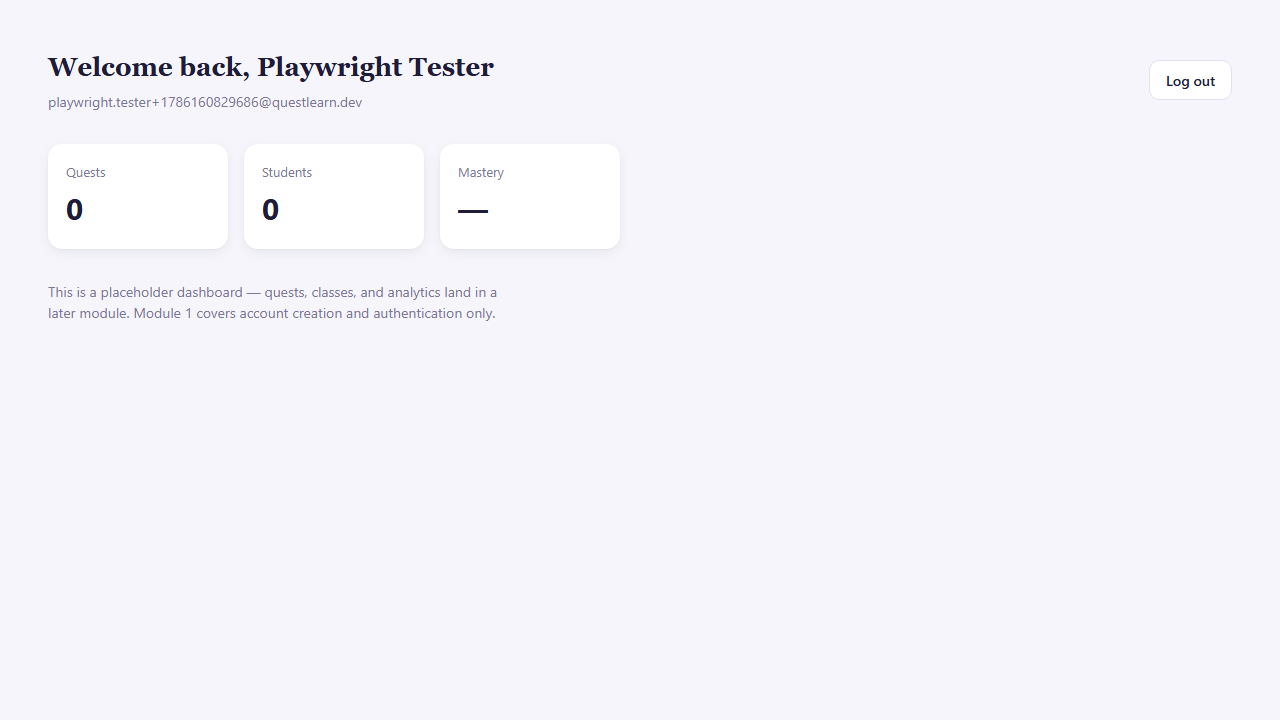
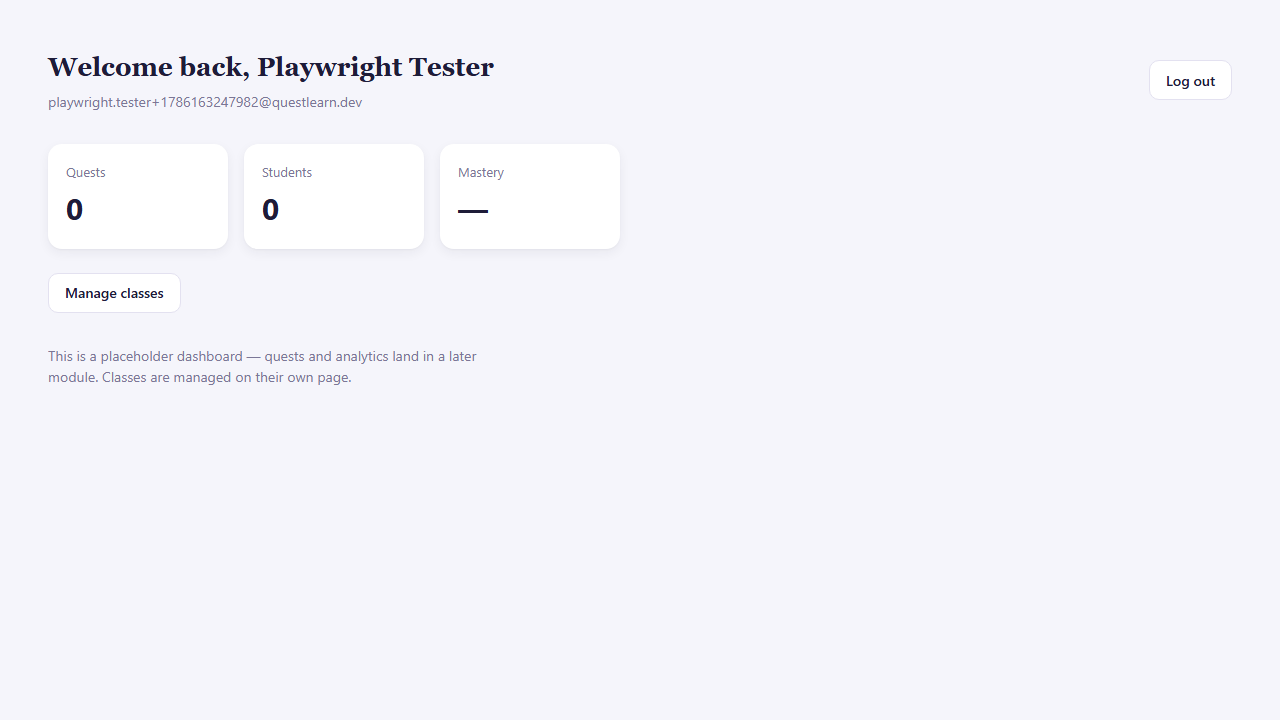
test(classes): add Playwright class browser journey and capture screenshots
Covers login -> create class -> class list -> class detail -> join
code -> roster add/remove -> join-code rotation, plus not-found and
unauthenticated-redirect states. Pins playwright.config.ts to
workers: 1: with two spec files now sharing one demo account, one
login rate-limit bucket, and one dev-log-scraping trick, running them
across parallel workers races all three. Also refreshes the Module 1
dashboard screenshot to reflect the new "Manage classes" link.

Changed region(s): [[0.0312, 0.3972, 0.375, 0.4583], [0.0312, 0.4889, 0.375, 0.55], [0.1562, 0.1222, 0.1875, 0.1528]]

diff --git a/apps/web/e2e/classes.spec.ts b/apps/web/e2e/classes.spec.ts
@@ -1,0 +1,90 @@
+import path from "node:path";
+import { test, expect } from "@playwright/test";
+
+const SCREENSHOT_DIR = path.resolve(__dirname, "../../../docs/screenshots/02-classes");
+
+const DEMO_EMAIL = "demo.teacher@questlearn.dev";
+const DEMO_PASSWORD = "DemoTeacher2026!";
+const uniqueSuffix = Date.now();
+const className = `Playwright Test Class ${uniqueSuffix}`;
+const rosterName = "Taylor Nguyen";
+const rosterEmail = `taylor.nguyen+${uniqueSuffix}@example.com`;
+
+async function login(page: import("@playwright/test").Page) {
+  await page.goto("/login");
+  await page.getByLabel("Email").fill(DEMO_EMAIL);
+  await page.getByLabel("Password").fill(DEMO_PASSWORD);
+  await page.getByRole("button", { name: /sign in/i }).click();
+  await expect(page).toHaveURL(/\/dashboard/);
+}
+
+test.describe.serial("class browser journey: login -> create -> roster -> rotate", () => {
+  test("log in, create a class, and see it in the class list", async ({ page }) => {
+    await login(page);
+
+    await page.goto("/classes");
+    await expect(page.getByRole("heading", { name: /your classes/i })).toBeVisible();
+    await page.screenshot({ path: path.join(SCREENSHOT_DIR, "class-list.png"), fullPage: true });
+
+    await page.getByRole("link", { name: /new class/i }).click();
+    await expect(page).toHaveURL(/\/classes\/new/);
+    await page.screenshot({ path: path.join(SCREENSHOT_DIR, "create-class-form.png"), fullPage: true });
+
+    await page.getByLabel("Class name").fill(className);
+    await page.getByRole("button", { name: /create class/i }).click();
+
+    await expect(page).toHaveURL(/\/classes\/[0-9a-f-]+$/);
+    await expect(page.getByTestId("class-name")).toContainText(className);
+
+    await page.goto("/classes");
+    await expect(page.getByTestId("classes-list")).toContainText(className);
+  });
+
+  test("open class detail, see the join code, manage roster, and rotate the code", async ({ page }) => {
+    await login(page);
+    await page.goto("/classes");
+
+    await page.getByTestId("class-card").filter({ hasText: className }).click();
+    await expect(page.getByTestId("class-name")).toContainText(className);
+
+    const originalCode = (await page.getByTestId("join-code").textContent())?.trim();
+    expect(originalCode).toMatch(/^[A-Z0-9]{8}$/);
+    await page.screenshot({ path: path.join(SCREENSHOT_DIR, "class-detail.png"), fullPage: true });
+
+    // Add a roster entry.
+    await page.getByLabel("Student name").fill(rosterName);
+    await page.getByLabel("Email (optional)").fill(rosterEmail);
+    await page.getByRole("button", { name: /^add$/i }).click();
+
+    await expect(page.getByTestId("roster-list")).toContainText(rosterName);
+    await expect(page.getByTestId("roster-list")).toContainText(rosterEmail);
+
+    // Remove it and confirm it disappears.
+    await page
+      .getByTestId("roster-entry")
+      .filter({ hasText: rosterName })
+      .getByRole("button", { name: /remove/i })
+      .click();
+
+    await expect(page.getByTestId("roster-empty")).toBeVisible();
+
+    // Rotate the join code (confirm() dialog auto-accepted).
+    page.once("dialog", (dialog) => dialog.accept());
+    await page.getByRole("button", { name: /rotate code/i }).click();
+
+    await expect(page.getByTestId("join-code")).not.toHaveText(originalCode ?? "");
+    await page.screenshot({ path: path.join(SCREENSHOT_DIR, "join-code-rotated.png"), fullPage: true });
+  });
+
+  test("visiting a class outside the caller's tenant shows the same not-found state", async ({ page }) => {
+    await login(page);
+    await page.goto("/classes/00000000-0000-0000-0000-000000000000");
+    await expect(page.getByTestId("class-not-found")).toBeVisible();
+  });
+
+  test("visiting /classes while unauthenticated redirects to /login", async ({ page }) => {
+    await page.context().clearCookies();
+    await page.goto("/classes");
+    await expect(page).toHaveURL(/\/login/);
+  });
+});

diff --git a/apps/web/playwright.config.ts b/apps/web/playwright.config.ts
@@ -12,6 +12,13 @@ export default defineConfig({
   testDir: "./e2e",
   timeout: 30_000,
   retries: 0,
+  // Every spec file drives the same shared demo account and the same
+  // dev-log-scraping trick (see support/api-log.ts) against one
+  // running server, and shares the login rate-limit bucket besides —
+  // running files in parallel across workers races both. Force
+  // strictly serial execution across the whole suite, not just within
+  // one file's describe.serial block.
+  workers: 1,
   reporter: [["list"]],
   use: {
     baseURL: process.env.WEB_URL ?? "http://localhost:3000",

diff --git a/README.md b/README.md
@@ -16,10 +16,12 @@ The full product and engineering plan lives in
 
 ## Status
 
-**Module 0 — Foundation** (workspace, tooling, health checkpoint) and
-**Module 1 — Authentication** (teacher registration, login, sessions)
-are both in place. See [Module 1 — Authentication](#module-1--authentication)
-below for what that module covers.
+**Module 0 — Foundation** (workspace, tooling, health checkpoint),
+**Module 1 — Authentication** (teacher registration, login, sessions),
+and **Module 2 — Classes** (class CRUD, join codes, roster management)
+are all in place. See [Module 1 — Authentication](#module-1--authentication)
+and [Module 2 — Classes](#module-2--classes) below for what each module
+covers.
 
 ## Architecture
 
@@ -176,14 +178,105 @@ testing:
 - [`login-error.png`](./docs/screenshots/01-authentication/login-error.png)
 - [`authenticated-dashboard.png`](./docs/screenshots/01-authentication/authenticated-dashboard.png)
 
+## Module 2 — Classes
+
+Teacher-side class management: a teacher creates a class, gets a
+join code to share, and maintains a roster manually. There is no
+learner login or self-service join flow in this module — a "roster
+entry" is a lightweight record the teacher adds and removes by hand,
+not a real user account. The actual "learner redeems a join code"
+flow is deferred to a later module, once there's learner-facing
+content (activities, assignments) for a learner session to land in.
+
+**What it adds:**
+
+- `POST /classes`, `GET /classes`, `GET /classes/:id`, `PATCH
+  /classes/:id`, `POST /classes/:id/join-code/rotate`, `POST
+  /classes/:id/roster`, `DELETE /classes/:id/roster/:rosterId`.
+- Real Next.js pages: `/classes` (list), `/classes/new` (create), and
+  `/classes/[id]` (detail — rename, archive, join-code rotation,
+  roster add/remove) — all built directly against
+  `@questlearn/design-system` components.
+- A "Manage classes" link from `/dashboard`.
+
+**Architecture decisions:**
+
+- **Every endpoint is scoped by tenant ID *and* owning teacher ID**,
+  checked together even though one-teacher-per-tenant currently makes
+  the two checks equivalent — the same forward-compatible posture
+  already established in the auth module, ready for multi-teacher
+  tenants later without a rewrite.
+- **Cross-tenant access 404s, never a distinct 403** — a class outside
+  the caller's tenant/ownership returns exactly the same "not found"
+  response as a class that doesn't exist at all, so the response shape
+  can't be used to confirm a class id is real. The frontend mirrors
+  this: there's no separate "permission denied" UI, just the same
+  not-found state the API deliberately returns.
+- **Classes are archived, not deleted**; roster entries are
+  soft-deleted via `removedAt`, not hard-deleted — later modules
+  (activities, assignments) will reference classes, and an audit trail
+  matters more than a clean delete.
+- **Join codes** are 8 characters, uppercase alphanumeric, excluding
+  characters that are easy to misread (`0`/`O`, `1`/`I`/`L`), globally
+  unique across the whole table (not just per tenant, since a future
+  redemption endpoint will need to look one up by code alone with no
+  tenant selector), with collision-retry generation and a default
+  30-day expiry from creation or rotation. Rotating immediately
+  invalidates the old code.
+- **Structured security logging** extends the auth module's
+  `SecurityLogger` with class-lifecycle events (`class_created`,
+  `class_archived`, `join_code_rotated`, `roster_entry_added`,
+  `roster_entry_removed`) rather than introducing a parallel logger.
+- **`class-validator` DTOs** on every write endpoint, matching the
+  auth module's validation pipe and per-field error shape.
+
+**Test coverage:**
+
+- Jest unit tests for join-code generation (format, excluded
+  characters, expiry math) and the classes service (join-code
+  collision retry, ownership-scoped 404s, rotation invalidating the
+  old code, roster soft-delete).
+- Jest integration tests against real Postgres
+  (`apps/api/test/classes/`) — a teacher in tenant A cannot view,
+  rename, archive, rotate the join code of, or modify the roster of a
+  class belonging to tenant B (404 in every case); roster add/remove
+  correctness (a removed entry disappears from the roster list but
+  still exists in the database with `removedAt` set); join-code
+  rotation invalidating the old code so a lookup by it fails.
+- **Playwright** (`apps/web/e2e/classes.spec.ts`): log in as the
+  seeded demo teacher → create a class → see it in the class list →
+  open the detail page → see the join code → add a roster entry → see
+  it appear → remove it → rotate the join code → confirm the code
+  visibly changed, plus the not-found and unauthenticated-redirect
+  states. This flow also produced the screenshots below. Running
+  multiple spec files against one shared demo account and one shared
+  login rate-limit bucket only works if they run strictly serially —
+  `playwright.config.ts` now pins `workers: 1` for exactly that reason.
+
+**Demo data:**
+
+`pnpm db:seed` gives the demo teacher (`demo.teacher@questlearn.dev`)
+two fictional classes with a few roster entries already in them, so
+the class-list and class-detail screens show real populated content
+on first login.
+
+**Screenshots** (`docs/screenshots/02-classes/`):
+
+- [`class-list.png`](./docs/screenshots/02-classes/class-list.png)
+- [`create-class-form.png`](./docs/screenshots/02-classes/create-class-form.png)
+- [`class-detail.png`](./docs/screenshots/02-classes/class-detail.png)
+- [`join-code-rotated.png`](./docs/screenshots/02-classes/join-code-rotated.png)
+
 ## Testing
 
 - **Jest** — unit tests for both apps (health service, auth service,
-  a render smoke test for the status page) plus real-Postgres
-  integration tests for the auth session lifecycle, tenant isolation,
-  and rate limiting.
-- **Playwright** (`apps/web/e2e/`) drives the real auth flow through a
-  real browser against the real running app — see Module 1 above.
+  classes service, join-code generation, a render smoke test for the
+  status page) plus real-Postgres integration tests for the auth
+  session lifecycle, classes lifecycle, tenant isolation (auth and
+  classes), and rate limiting.
+- **Playwright** (`apps/web/e2e/`) drives the real auth and class
+  management flows through a real browser against the real running
+  app — see Module 1 and Module 2 above.
 
 ## Known limitations
 
@@ -206,6 +299,24 @@ testing:
   styled pages against the tokens and components as they are.
 - No feature/business logic (quizzes, quests, XP, mastery) exists yet
   — intentionally out of scope for this module.
+
+**Module 2:**
+
+- **No learner-facing join flow.** A roster entry is a name (and
+  optional email) the teacher types in — not an account, and nothing
+  a learner can use to log in. The real "redeem a join code" flow is
+  deferred to a later module, once there's learner-facing content
+  (activities, assignments) for a learner session to actually reach.
+- **No CSV roster import.** Roster entries are added one at a time
+  through the inline form; bulk import is a reasonable future
+  addition but wasn't required for this module's scope.
+- **No join-code brute-force rate limiting yet.** The join-code
+  rotation endpoint is authenticated and tenant/owner-scoped like
+  every other endpoint in this module, but there is no *redemption*
+  endpoint yet (nothing that accepts a bare code and looks up a
+  class), so there's nothing for a brute-force attempt to target.
+  Rate limiting the eventual redemption endpoint is that future
+  module's concern, not something silently skipped here.
 
 ## License
 
